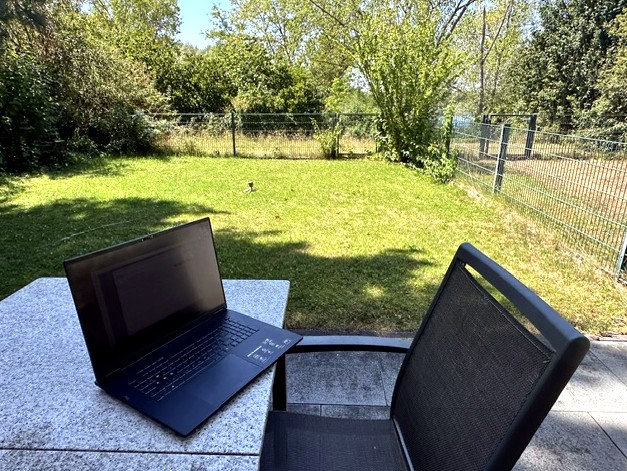
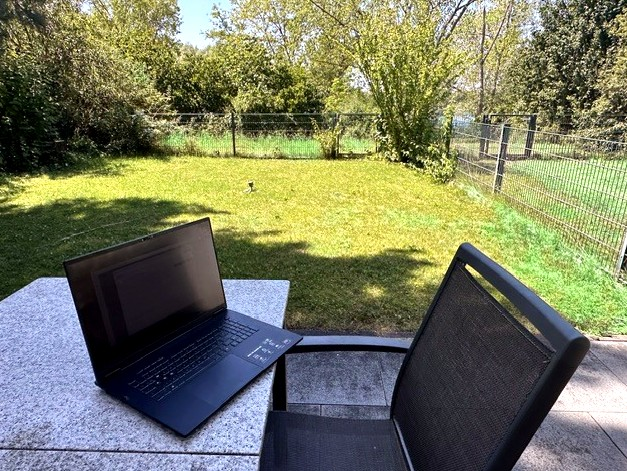
Add files via upload

diff --git a/coaching.html b/coaching.html
@@ -44,9 +44,9 @@
 </section>
 
 <section>
+  <h2 class="wrap" style="margin-bottom:1.5rem;">Wann Coaching für dich der richtige Schritt ist</h2>
   <div class="wrap grid-2">
     <div>
-      <h2>Wann Coaching für dich der richtige Schritt ist</h2>
       <ul>
         <li style="margin-bottom:0.6rem;">Du hast eine Vision vor Augen und willst sie zielgerichtet angehen – als Entwicklungspartnerin begleite ich dich dabei</li>
         <li style="margin-bottom:0.6rem;">Du spürst "da geht noch mehr", kannst aber nicht genau benennen, was fehlt</li>
@@ -66,7 +66,7 @@
 
 <section class="alt">
   <div class="wrap">
-    <h2>Diagnostik-Bausteine</h2>
+    <h2>Was dich wirklich ausmacht</h2>
     <p style="font-size:14px; color:var(--text-muted); margin-bottom:1.5rem;">Fundierte Analyse als Ausgangspunkt</p>
     <div class="grid-3">
       <div class="card accent-gruen">
@@ -103,15 +103,17 @@
       <h2>Coaching-Schwerpunkte</h2>
       <p style="font-size:14px; color:var(--text-muted); margin-bottom:1rem;">Vertiefende Begleitung auf Basis von Neurowissenschaft &amp; Mindset-Arbeit</p>
       <ul>
-        <li style="margin-bottom:0.75rem;"><strong>Ziele &amp; Ausrichtung finden</strong> – Wohin soll die Reise gehen? Gemeinsam entwickeln wir realistische, stimmige Ziele – beruflich wie persönlich –, die wirklich zu dir passen.</li>
-        <li style="margin-bottom:0.75rem;"><strong>Gewohnheiten &amp; Musterbildung</strong> – Auf Basis neurowissenschaftlicher Erkenntnisse ersetzen wir hinderliche Gewohnheiten durch neue, tragfähige Muster.</li>
-        <li style="margin-bottom:0.75rem;"><strong>Mindset &amp; innere Haltung</strong> – Wir erkennen hinderliche Glaubenssätze und entwickeln eine Haltung, die dich wirklich trägt.</li>
-        <li style="margin-bottom:0.75rem;"><strong>Gedankenhygiene</strong> – Du lernst, gedankliche Muster bewusst wahrzunehmen und aktiv zu gestalten – für mentale Klarheit und Ruhe.</li>
-        <li><strong>Umsetzung &amp; nachhaltige Veränderung</strong> – Konkrete Schritte und Umsetzungsbegleitung, damit Veränderung bleibt.</li>
+        <li style="margin-bottom:0.75rem;"><strong>Ziele &amp; Ausrichtung finden</strong> – Wohin soll die Reise gehen? Gemeinsam entwickeln wir realistische, stimmige Ziele – beruflich wie persönlich –, die wirklich zu dir passen. So wird aus einem vagen Wunsch eine klare Richtung, der du Schritt für Schritt folgen kannst.</li>
+        <li style="margin-bottom:0.75rem;"><strong>Gewohnheiten &amp; Musterbildung</strong> – Wie entstehen neue Routinen – und wie werden alte durchbrochen? Auf Basis neurowissenschaftlicher Erkenntnisse ersetzen wir hinderliche Gewohnheiten durch neue, tragfähige Muster, die auch im stressigen Alltag halten.</li>
+        <li style="margin-bottom:0.75rem;"><strong>Mindset &amp; innere Haltung</strong> – Welche Einstellung trägt dich – und welche bremst dich? Wir erkennen hinderliche Glaubenssätze und entwickeln eine Haltung, die dich wirklich trägt – gerade dann, wenn es unbequem wird.</li>
+        <li style="margin-bottom:0.75rem;"><strong>Gedankenhygiene</strong> – Was denkst du eigentlich den ganzen Tag? Du lernst, gedankliche Muster bewusst wahrzunehmen und aktiv zu gestalten – für mentale Klarheit und mehr Ruhe im Kopf, auch in turbulenten Phasen.</li>
+        <li><strong>Umsetzung &amp; nachhaltige Veränderung</strong> – Wie wird aus Erkenntnis Alltag? Konkrete Schritte und Umsetzungsbegleitung – damit Veränderung nicht nur ein gutes Gefühl nach der Sitzung bleibt, sondern wirklich hält.</li>
       </ul>
     </div>
     <div>
-      <img src="foto6-bearbeitet.jpg" alt="Laptop auf Gartentisch" style="width:100%; border-radius:var(--radius); display:block;">
+      <div class="img-placeholder">
+        📷 Platzhalter – Foto passend zu den Coaching-Schwerpunkten
+      </div>
     </div>
   </div>
 </section>
@@ -129,13 +131,18 @@
 </section>
 
 <section class="alt">
-  <div class="wrap">
-    <h2>So arbeiten wir zusammen</h2>
-    <ul>
-      <li style="margin-bottom:0.6rem;"><strong>Flexibel, wie es zu dir passt</strong> – ob online oder persönlich: Du entscheidest. In Mannheim ohne Zusatzkosten, außerhalb zzgl. Reisekosten.</li>
-      <li style="margin-bottom:0.6rem;"><strong>Erstmal unverbindlich kennenlernen</strong> – im kostenlosen 15-minütigen Erstgespräch schauen wir, ob es zwischen uns passt.</li>
-      <li><strong>So viel wie nötig, nicht mehr</strong> – meist reichen 2 bis 3 Sitzungen, um spürbar voranzukommen. Keine Pakete, kein Kleingedrucktes.</li>
-    </ul>
+  <div class="wrap grid-2">
+    <div>
+      <img src="foto6-bearbeitet.jpg" alt="Laptop auf Gartentisch" style="width:100%; border-radius:var(--radius); display:block;">
+    </div>
+    <div>
+      <h2>So arbeiten wir zusammen</h2>
+      <ul>
+        <li style="margin-bottom:0.6rem;"><strong>Flexibel, wie es zu dir passt</strong> – ob online oder persönlich: Du entscheidest. In Mannheim ohne Zusatzkosten, außerhalb zzgl. Reisekosten.</li>
+        <li style="margin-bottom:0.6rem;"><strong>Erstmal unverbindlich kennenlernen</strong> – im kostenlosen 15-minütigen Erstgespräch schauen wir, ob es zwischen uns passt.</li>
+        <li><strong>So viel wie nötig, nicht mehr</strong> – meist reichen 2 bis 3 Sitzungen, um spürbar voranzukommen. Keine Pakete, kein Kleingedrucktes.</li>
+      </ul>
+    </div>
   </div>
 </section>
 
